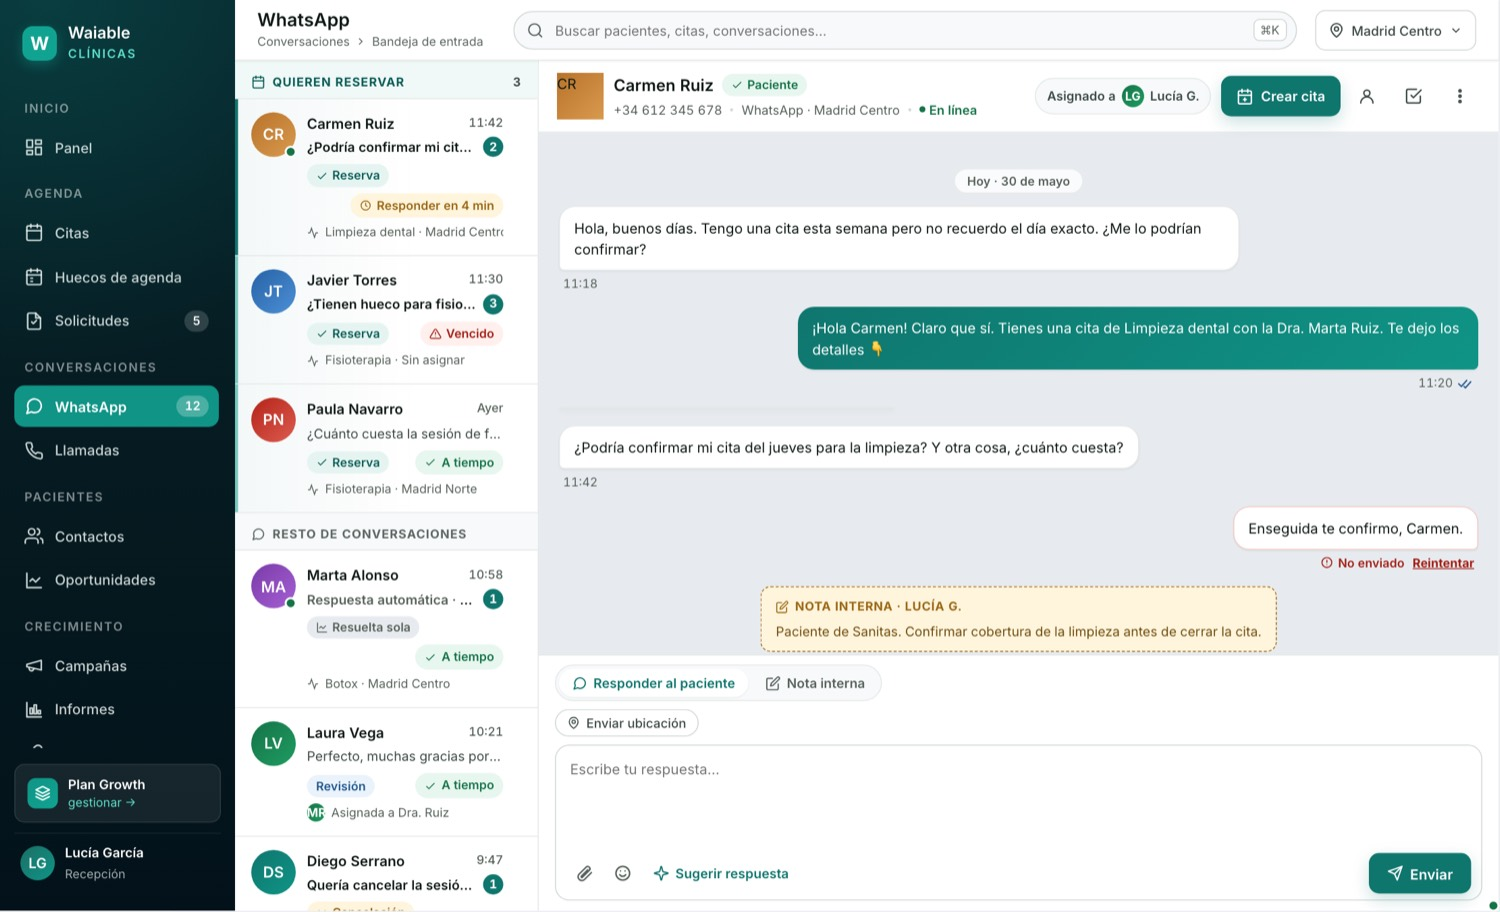
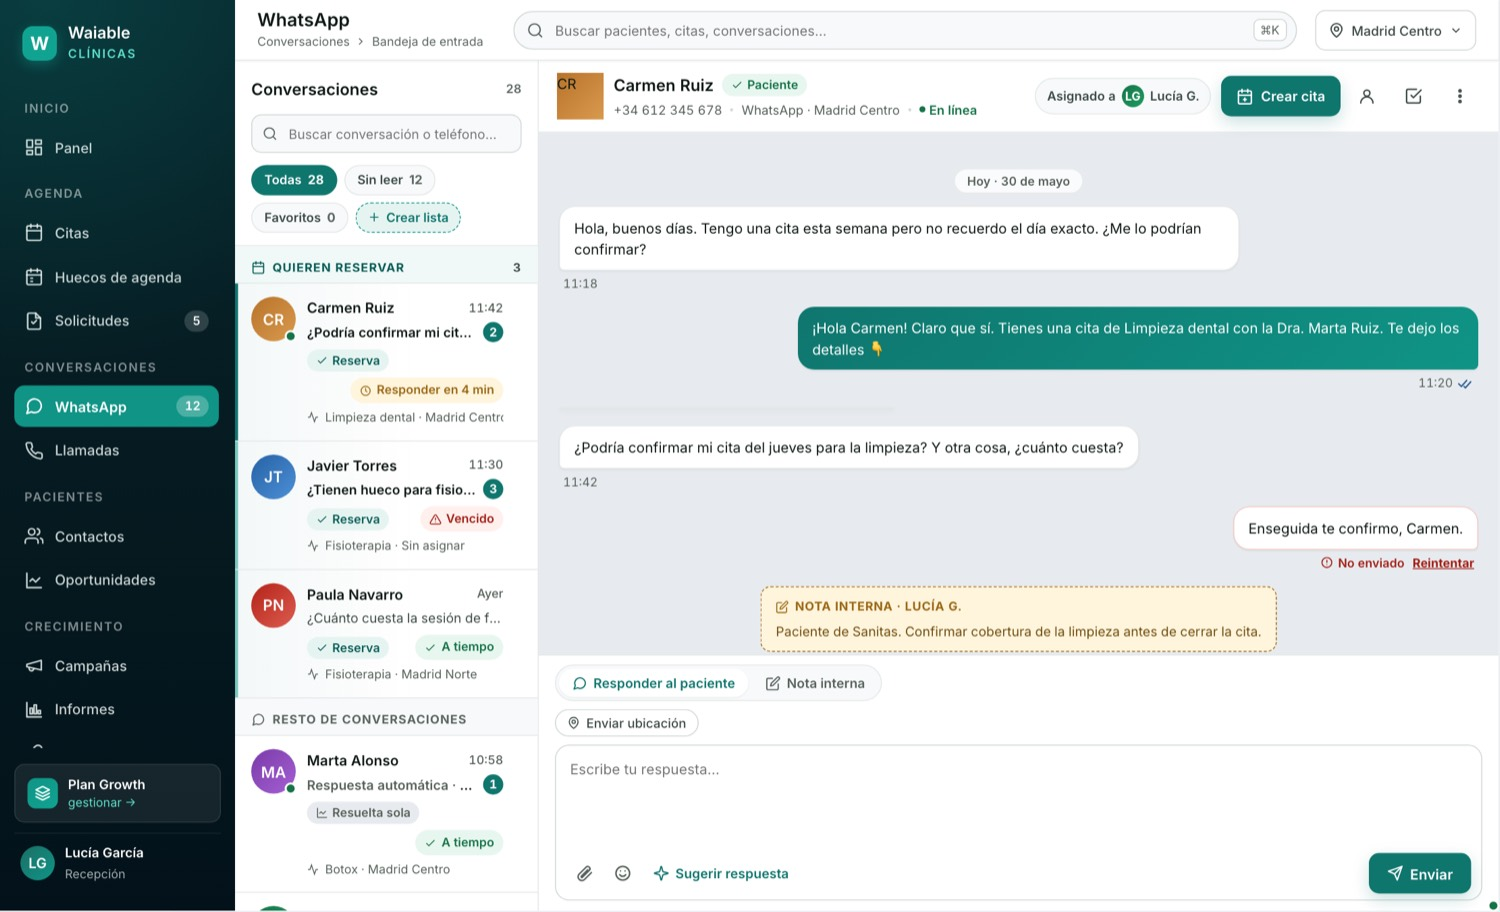
Inbox: barra de filtros de conversaciones (Todas/Sin leer/Favoritos + Crear lista estilo WhatsApp) con buscador y titulo de lista

Changed region(s): [[0.1533, 0.0614, 0.3373, 1.0]]

diff --git a/whatsapp/inbox.html b/whatsapp/inbox.html
@@ -498,6 +498,27 @@ a:focus-visible, button:focus-visible, input:focus-visible, textarea:focus-visib
 .conv-action.on.in-list{color:var(--info)}
 .conv-action:hover{background:var(--surface-soft)}
 
+
+/* Filtros de conversaciones */
+.conv-filters{display:flex;gap:7px;flex-wrap:wrap;align-items:center}
+.cf-pill{display:inline-flex;align-items:center;gap:6px;height:30px;padding:0 12px;border-radius:var(--radius-pill);font-size:12.5px;font-weight:600;color:var(--text-2);background:var(--surface-soft);border:1px solid var(--line);cursor:pointer;font-family:inherit;transition:all .12s}
+.cf-pill span{font-weight:700;color:var(--muted)}
+.cf-pill:hover{border-color:var(--line-strong)}
+.cf-pill.active{background:var(--primary);color:#fff;border-color:var(--primary)}
+.cf-pill.active span{color:#fff}
+.cf-newlist{display:inline-flex;align-items:center;gap:5px;height:30px;padding:0 11px;border-radius:var(--radius-pill);font-size:12.5px;font-weight:600;color:var(--primary);background:var(--primary-soft);border:1px dashed var(--primary-bright);cursor:pointer;font-family:inherit}
+.cf-newlist:hover{background:var(--primary-tint)}
+.cf-newlist svg{width:13px;height:13px}
+.cf-pill.cf-list{background:var(--info-soft);color:var(--info);border-color:var(--info-soft)}
+.cf-pill.cf-list.active{background:var(--info);color:#fff;border-color:var(--info)}
+#cfLists{display:contents}
+.conv{padding-right:34px}
+.conv-action{position:absolute;top:50%;right:8px;transform:translateY(-50%);width:26px;height:26px;border-radius:7px;border:none;background:transparent;color:var(--line-strong);display:grid;place-items:center;cursor:pointer;opacity:0;transition:opacity .12s,color .12s;z-index:2}
+.conv:hover .conv-action{opacity:1}
+.conv-action.on{opacity:1;color:var(--warning)}
+.conv-action.on.in-list{color:var(--info)}
+.conv-action:hover{background:var(--surface-soft)}
+
 </style>
 </head>
 <body>
@@ -574,6 +595,20 @@ a:focus-visible, button:focus-visible, input:focus-visible, textarea:focus-visib
 
       <!-- COL 1: lista de conversaciones -->
       <section class="col-list">
+        <div class="list-head">
+          <div class="lh-top"><h2>Conversaciones</h2><span class="lh-count">28</span></div>
+          <div class="search-mini">
+            <svg class="sm-ico" width="15" height="15" viewBox="0 0 24 24" fill="none" stroke="currentColor" stroke-width="2" stroke-linecap="round"><circle cx="11" cy="11" r="8"/><path d="m21 21-4.3-4.3"/></svg>
+            <input type="text" placeholder="Buscar conversación o teléfono…">
+          </div>
+          <div class="conv-filters" id="convFilters">
+            <button class="cf-pill active" data-filter="todas">Todas <span>28</span></button>
+            <button class="cf-pill" data-filter="sin-leer">Sin leer <span>12</span></button>
+            <button class="cf-pill" data-filter="favoritos">Favoritos <span id="favCount">0</span></button>
+            <span id="cfLists"></span>
+            <button class="cf-newlist" id="cfNewList" type="button"><svg width="13" height="13" viewBox="0 0 24 24" fill="none" stroke="currentColor" stroke-width="2" stroke-linecap="round" stroke-linejoin="round"><path d="M12 5v14M5 12h14"/></svg>Crear lista</button>
+          </div>
+        </div>
         <div class="conv-scroll">
 
           <!-- SECCIÓN PRIORITARIA: lo que convierte (intención de reserva) -->
